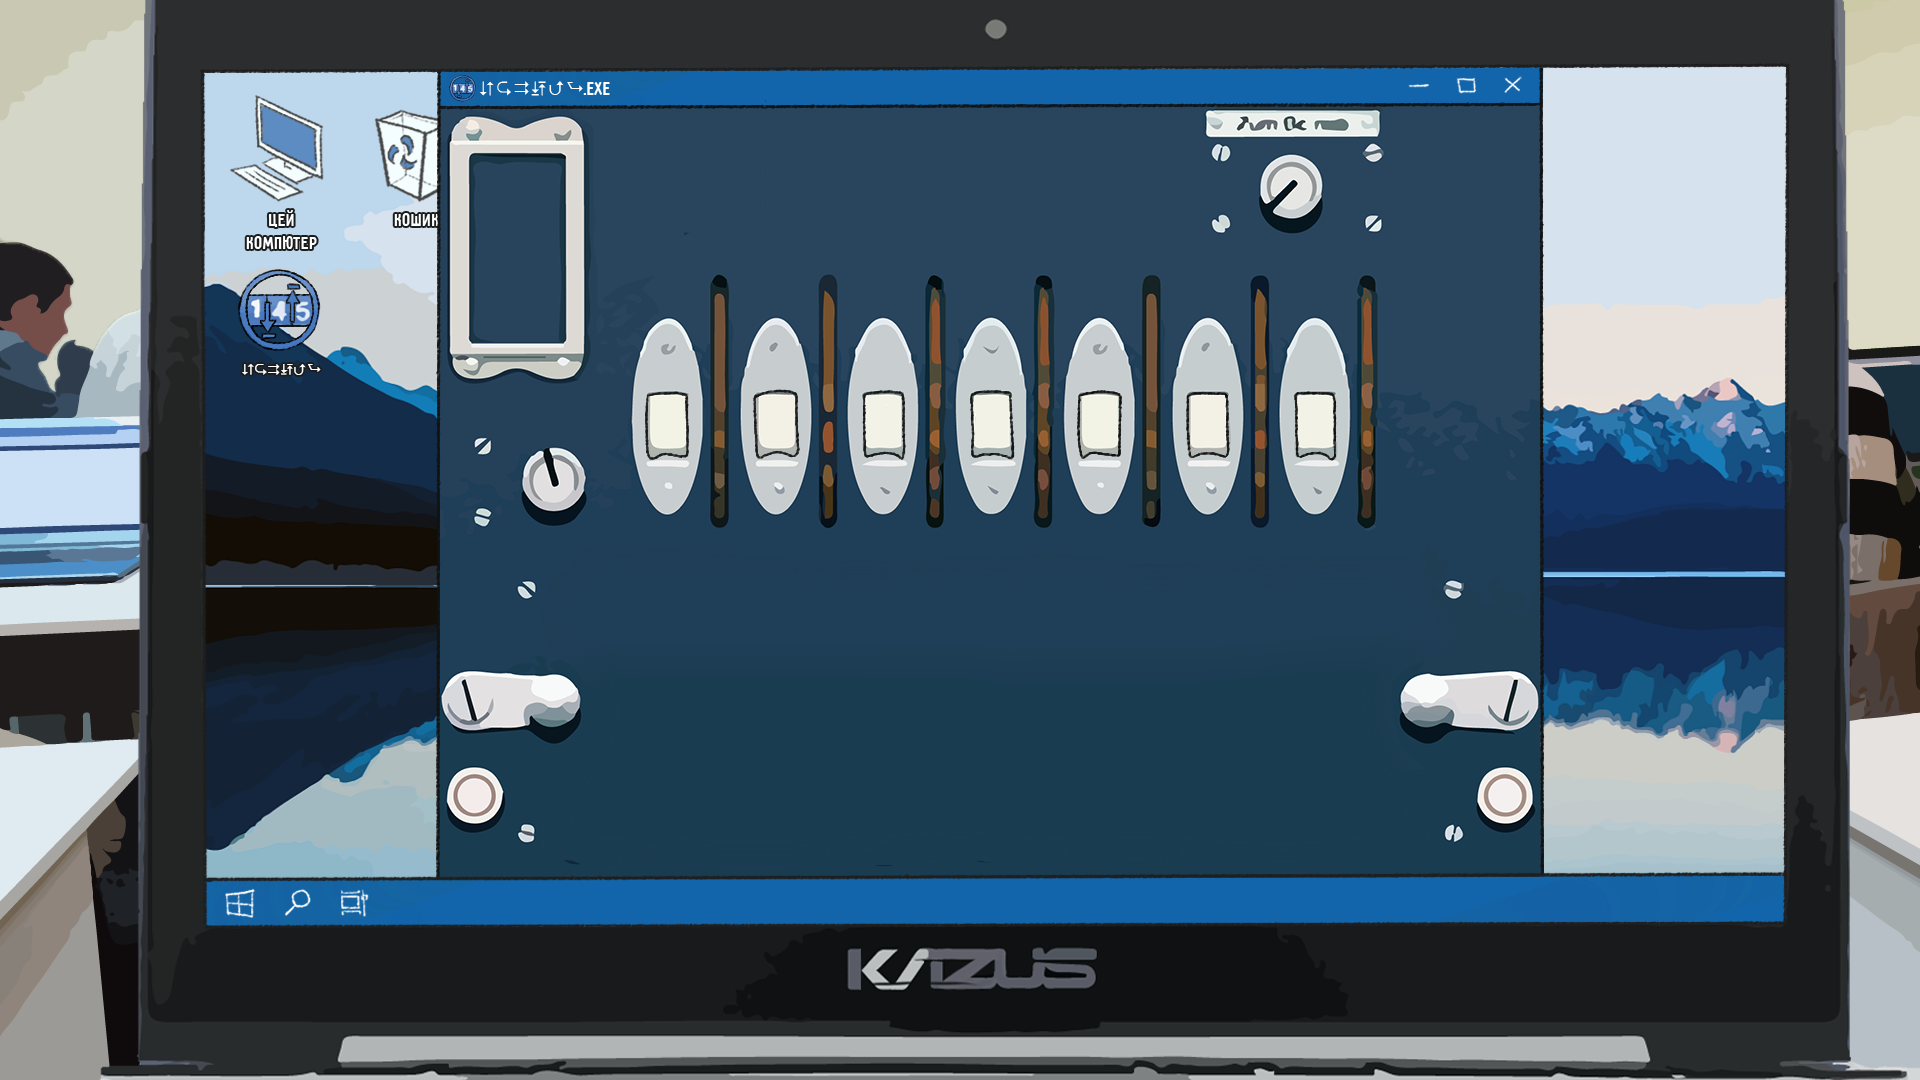
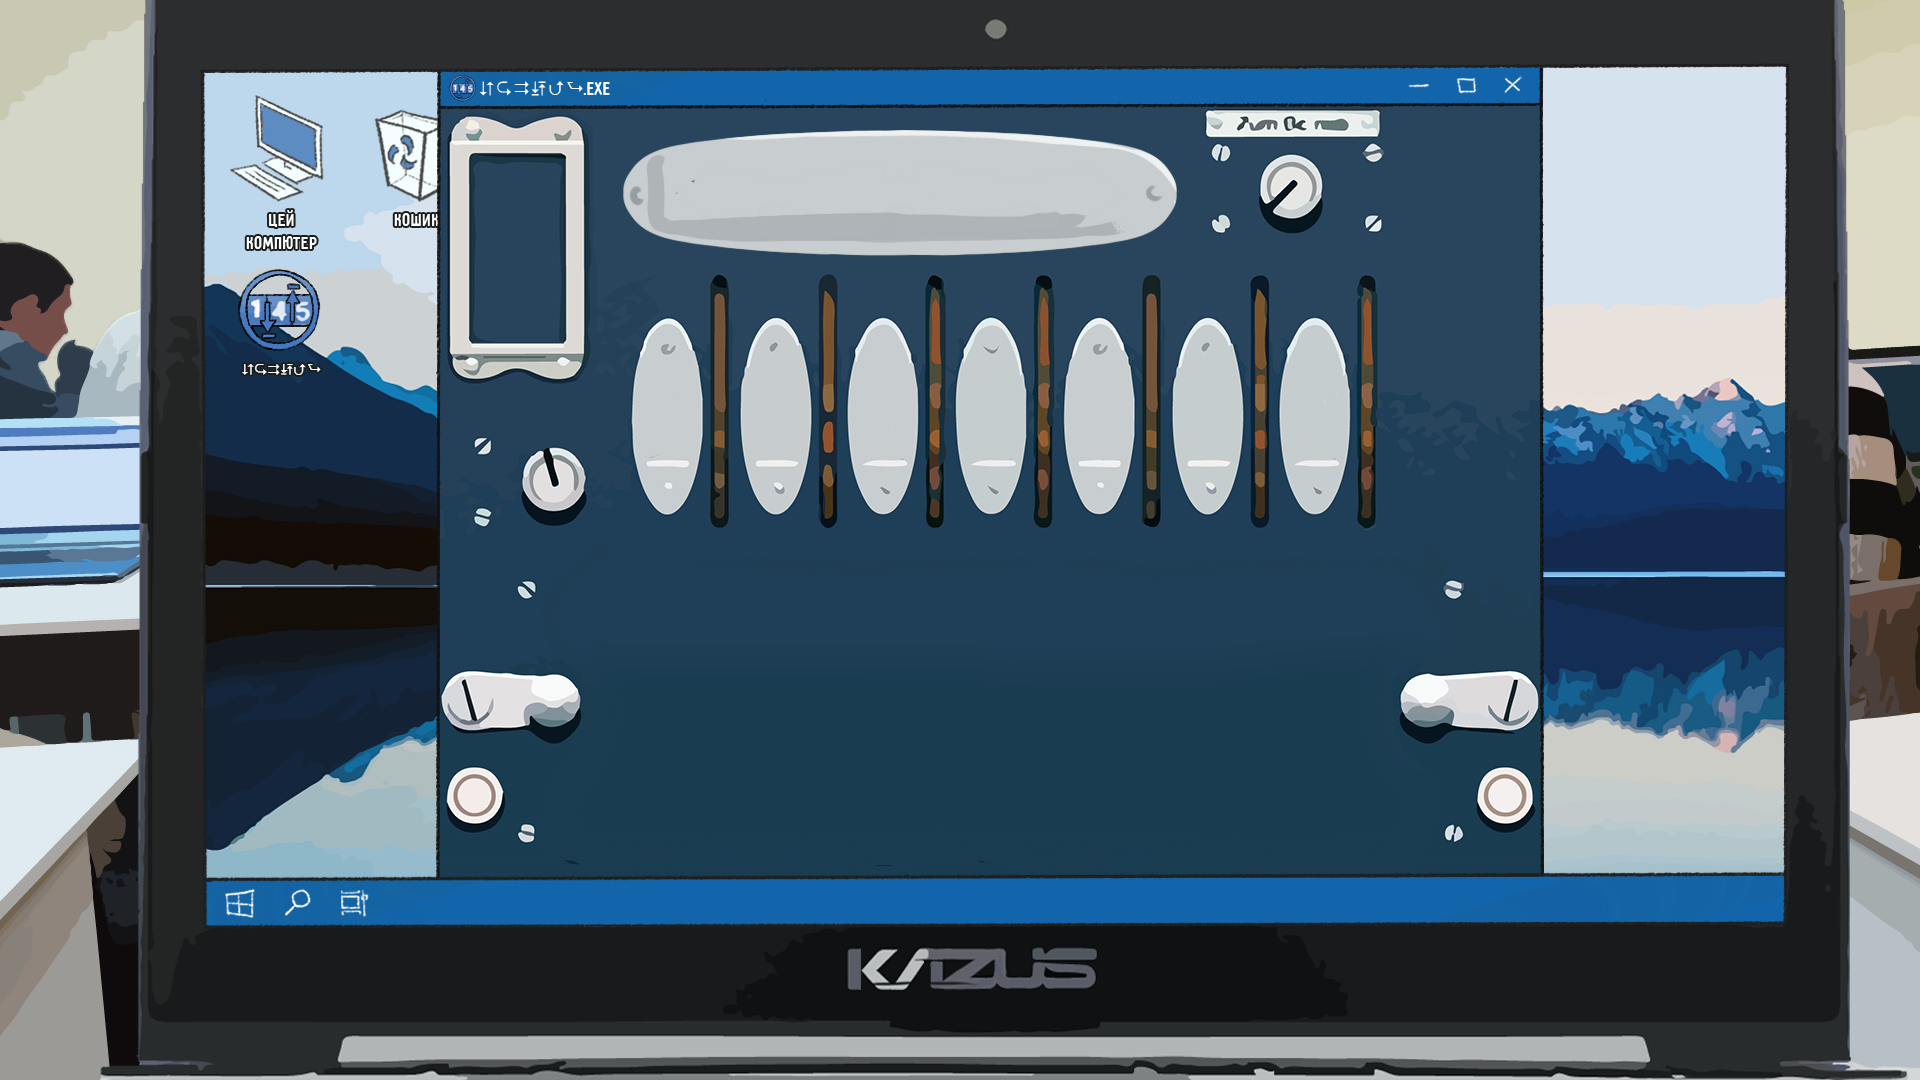
working quest

diff --git a/frontend/src/components/Game/states/SecondStage/Crypto/Crypto.js b/frontend/src/components/Game/states/SecondStage/Crypto/Crypto.js
@@ -8,17 +8,17 @@ const keyBoardTemplate = [
     ['P','Y','X','C','V','B','N','M','L']
 ];
 const words = [
-    'acrobat',
-    'battery',
-    'chariot',
-    'dungeon',
-    'evening',
-    'forever',
-    'geology',
-    'heretic',
-    'justice',
-    'kickoff',
-    'landing'
+    {word:'acrobat', checked: false},
+    {word:'battery', checked: false},
+    {word:'chariot', checked: false},
+    {word:'dungeon', checked: false},
+    {word:'evening', checked: false},
+    {word:'forever', checked: false},
+    {word:'geology', checked: false},
+    {word:'heretic', checked: false},
+    {word:'justice', checked: false},
+    {word:'kickoff', checked: false},
+    {word:'landing', checked: false}
 ];
 const CELL_OFFSET_HOR = 645;
 const CELL_OFFSET_VER = 390;
@@ -30,6 +30,7 @@ export default class CryptoState extends Phaser.State {
             context.game.displayDialogLine('Ви', 'Просторий хол, пронизаний сонячними променями, зустрічає вас галасливим натовпом. Ви відчуваєте себе частиною масштабної і значної події. Захоплення тісно переплітається з хвилюванням, збиваючи з звичного ритму сердце. Ваш погляд розгублено бігає по людських силуетах і табличках, що підняті високо над головами. Так багато кафедр...', () => context.next());
         });
         yield;
+        this.clearInputCells();
 
         this.generateWord(function() {
             context.game.displayDialogLine('Ви', 'Просторий хол, пронизаний сонячними променями, зустрічає вас галасливим натовпом. Ви відчуваєте себе частиною масштабної і значної події. Захоплення тісно переплітається з хвилюванням, збиваючи з звичного ритму сердце. Ваш погляд розгублено бігає по людських силуетах і табличках, що підняті високо над головами. Так багато кафедр...', () => context.next());
@@ -48,6 +49,9 @@ export default class CryptoState extends Phaser.State {
     preload() {
         this.load.image('machine', './assets/images/crypto/background.png');
         this.load.image('input', './assets/images/crypto/input.png');
+        this.load.image('field', './assets/images/crypto/field.png');
+        this.load.image('bad', './assets/images/crypto/bad.png');
+        this.load.image('ok', './assets/images/crypto/ok.png');
         this.load.image('A', './assets/images/crypto/keyboard/A.png');
         this.load.image('B', './assets/images/crypto/keyboard/B.png');
         this.load.image('C', './assets/images/crypto/keyboard/C.png');
@@ -89,6 +93,14 @@ export default class CryptoState extends Phaser.State {
         this.random = new Phaser.RandomDataGenerator([Date.now()]);
 
         this.keyBoard = this.game.add.group();
+        this.field = {
+            sprite: this.game.add.sprite(662, 155, 'field'),
+            text: this.game.add.text(662 + 175, 165, '', {
+                fontSize: 40,
+                font: 'Pangolin',
+            }),
+            mark: null
+        }
 
         this.initSymbols();
 
@@ -100,7 +112,8 @@ export default class CryptoState extends Phaser.State {
     }
 
     generateWord(callback) {
-        this.currentWord = words[this.random.integerInRange(0, words.length - 1)];
+        this.currentWord = words[this.random.integerInRange(0, words.length - 1)].word;
+        this.updateField();
         this.input = new CryptoInput(CELL_OFFSET_HOR, CELL_OFFSET_VER, this.currentWord, this.game);
         this.input.onInputEnd = () => {
             let answer = '';
@@ -108,14 +121,38 @@ export default class CryptoState extends Phaser.State {
                 answer += member.value;
             });
             if(answer === this.input.word) {
-                this.input.cells.forEach((member) => {
-                    member.sprite.destroy();
-                    member.text.destroy();
-                    member.value = '';
-                });
-                callback()
+                this.destroyFieldMark();
+                this.setFieldMark(975, 165, 'ok');
+                setTimeout(callback, 100);
             }
+            else this.setFieldMark(980, 170, 'bad');
         };
+    }
+
+    cipheredWord() {
+        
+    }
+
+    clearInputCells() {
+        this.input.cells.forEach((member) => {
+            member.sprite.destroy();
+            member.text.destroy();
+            member.value = '';
+        });
+    }
+
+    destroyFieldMark() {
+        if(this.field.mark) this.field.mark.destroy();
+    }
+
+    setFieldMark(x, y, sprite) {
+        this.field.mark = this.game.add.sprite(x, y, sprite);
+        this.field.mark.width = this.field.mark.height = 40;
+    }
+
+    updateField() {
+        this.destroyFieldMark();
+        this.field.text.setText(this.currentWord);
     }
 
     initSymbols() {

diff --git a/frontend/src/components/Game/states/SecondStage/Crypto/CryptoInput.js b/frontend/src/components/Game/states/SecondStage/Crypto/CryptoInput.js
@@ -2,13 +2,12 @@ import autobind from 'autobind-decorator';
 import {smartSetHeight} from '../../../utils';
 
 const CELL_WIDTH = 65;
-const CELL_PADDING = 40;
+const CELL_PADDING = 43;
 
 const KEY_BACKSPACE = 8;
 
 export default class CryptoInput {
     constructor(x, y, word, game) {
-        console.log(word);
         this.isFocused = true;
         this.game = game;
         this.word = word;
@@ -26,11 +25,6 @@ export default class CryptoInput {
             value: ''
         }));
         this.focusedCell = this.cells[0];
-
-        /*this.mark = this.game.add.sprite(x + (CELL_WIDTH + CELL_PADDING) * this.word.length, y, 'bad');
-        this.mark.visible = false;*/
-
-        //smartSetHeight(this.mark, CELL_WIDTH);
 
         this.cells.forEach(cell => {
             smartSetHeight(cell.sprite, CELL_WIDTH);
